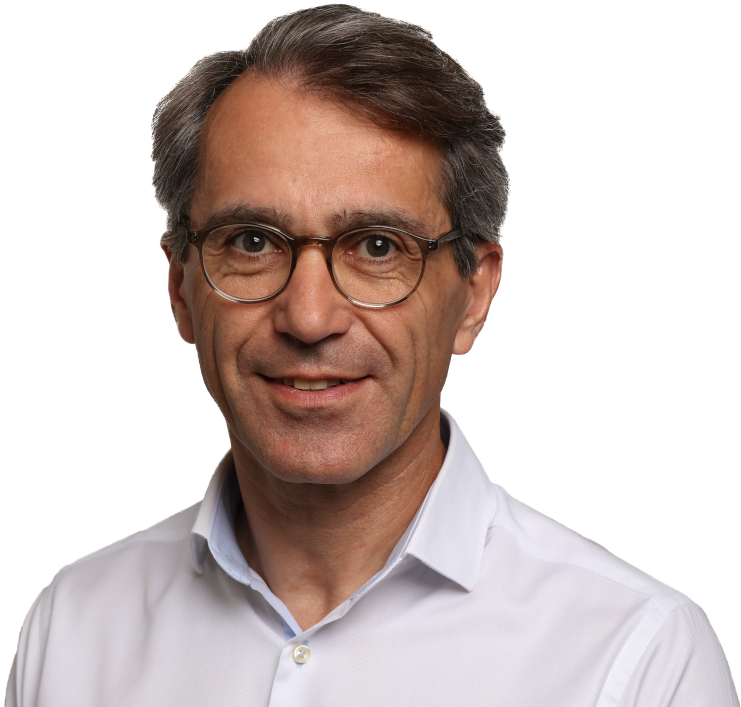
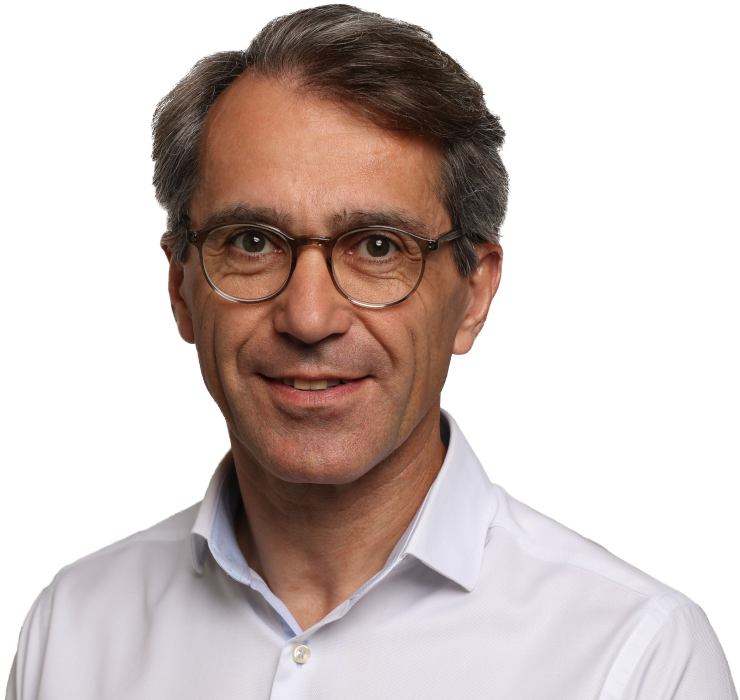
resized image

diff --git a/index.html b/index.html
@@ -20,7 +20,7 @@
             </ul>
         </div>
         <div class="portrait">
-            <img src="img/klaus-portrait2.png" alt="Klaus Strele">
+            <img src="img/klaus-portrait.png" alt="Klaus Strele">
         </div>
         <div class="introduction">
             <h1>Klaus Strele</h1>
